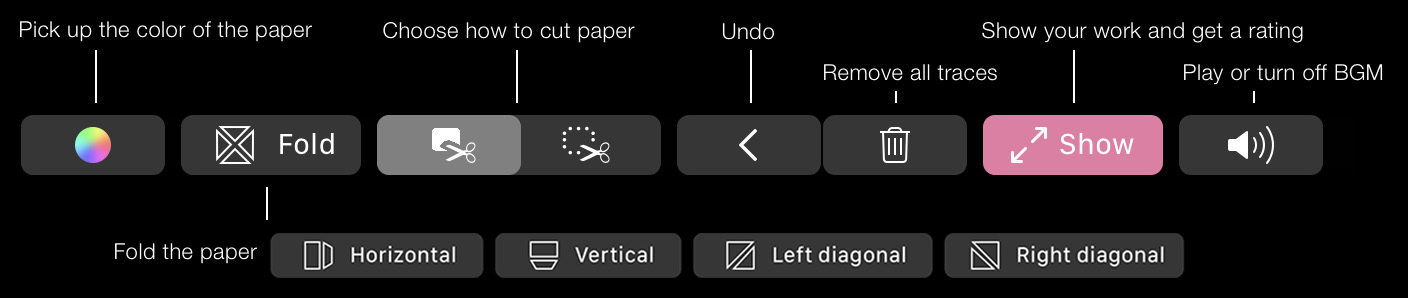
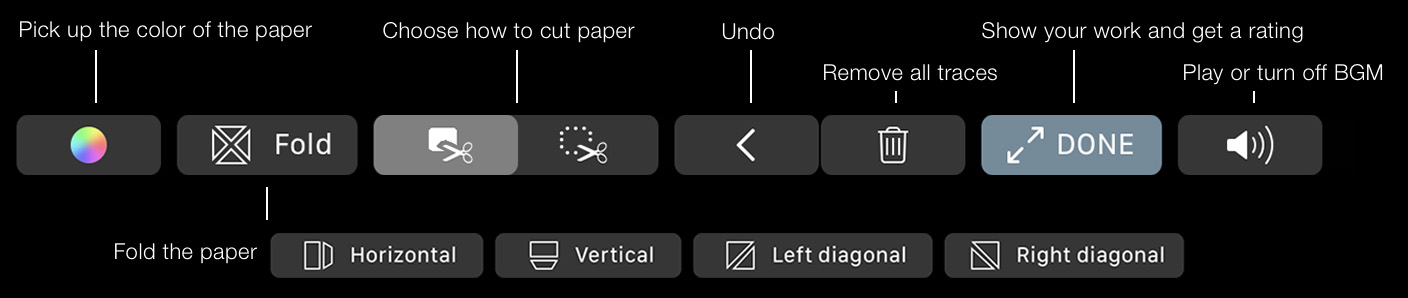
Add readme

diff --git a/Papercutting.playground/Sources/PaperCutScene.swift b/Papercutting.playground/Sources/PaperCutScene.swift
@@ -115,12 +115,12 @@ public class PaperCutScene : SKScene{
             SKAction.wait(forDuration: 2)
             self.scoreBoard.text = "Level-\(self.level): Cut a \"\(self.compareImageName)\"."
             self.scoreBoard.fontSize = CGFloat(20)
-            self.finishBoard.text = "Push DOWN, get the rank."
+            self.finishBoard.text = "Push DOWN, get the rating."
             self.hintButton.isHidden = false
         }
         let fadeInOut = SKAction.sequence([.fadeOut(withDuration: 0.1), presentAction, .fadeIn(withDuration: 0.3)])
         scoreBoard.fontColor = #colorLiteral(red: 0.4375018775, green: 0.5443386436, blue: 0.6065829396, alpha: 1)
-        scoreBoard.position = CGPoint(x: UIConfig.backgroundSize.width / 2 , y: UIConfig.backgroundSize.height / 7)
+        scoreBoard.position = CGPoint(x: UIConfig.backgroundSize.width / 2 , y: UIConfig.backgroundSize.height * 0.15)
         scoreBoard.name = "scoreboard"
         scoreBoard.fontName = "Futura Medium Italic"
         addChild(scoreBoard)
@@ -200,10 +200,12 @@ public class PaperCutScene : SKScene{
             if(self.level <= 2) {
                 self.scoreBoard.fontSize = CGFloat(20)
                 self.scoreBoard.text = "Level-\(self.level): Cut a \"\(self.compareImageName)\"."
-                self.finishBoard.text = "Push DOWN, get the rank."
+                self.finishBoard.fontSize =  CGFloat(20)
+                self.finishBoard.text = "Push DOWN, get the rating."
             } else {
                 self.scoreBoard.fontSize = CGFloat(20)
                 self.scoreBoard.text = "Level-\(self.level)"
+                self.finishBoard.fontSize =  CGFloat(20)
                 self.finishBoard.text = "Create your own papercutting art works."
             }
             self.hintButton.isHidden = false
@@ -365,26 +367,28 @@ public class PaperCutScene : SKScene{
         
         paperCutBoard.show()
         let rank = compare()
-        scoreBoard.text = "\(rank)"
-        scoreBoard.fontSize =  CGFloat(45)
+//        scoreBoard.text =
+//        scoreBoard.fontSize =  CGFloat(45)
+        finishBoard.fontSize = CGFloat(30)
         if rank == "🌟🌟🌟" {
             if level <= 2 {
                 nextButton.isHidden = false
             }
-            finishBoard.text = "Perfect!"
+            finishBoard.text = "\(rank)"
+            
             finishBoard.isHidden = false
         } else if rank == "🌟🌟"{
             if level <= 2 {
                 nextButton.isHidden = false
             }
-            finishBoard.text = "Greate!"
+            finishBoard.text = "\(rank)"
             finishBoard.isHidden = false
         } else {
             tryTime += 1
             if tryTime >= 3 {
                 nextButton.isHidden = false
             }
-            finishBoard.text = "Try harder!"
+            finishBoard.text = "\(rank)"
             finishBoard.isHidden = false
         }
  

diff --git a/Papercutting.playground/Pages/Papercutting.xcplaygroundpage/Contents.swift b/Papercutting.playground/Pages/Papercutting.xcplaygroundpage/Contents.swift
@@ -17,7 +17,11 @@
  
  There are two ways to cut paper. Yin carving is to engrave the outline lines that represent the structure of objects. Contrary to Yin carving, Yang carving is to cut away the blank part and keep the outline.
  
- ![carving-yin-yang](carving-yin-yang.png)
+ ![carving-yin-yang](skills.png)
+ 
+ ## Let's start with a circle
+ 
+ Try to fold the paper and cut the paper in two different ways. Finally, you can unfold the paper by pressing the `DONE` button on the touch bar, or pressing the `S` key on the keyboard to see the final work. In the first two levels, you need to cut out a circle and a star, and when pressing `DONE`, you will get a rating for your work. Try to get at least two 🌟, or even three. You can click `HINT` on the screen for some tips. When `NEXT` appears, you can click it to go to the next level.
  
  ## How to control?
  
@@ -38,9 +42,7 @@
      * T for clearing the paper
      * M for palying / turning off the backgroung music
  
- ## Let's start with a circle
- 
- Try to fold the paper and cut the paper in two different ways. Finally, you can unfold the paper by pressing the `DONE` button on the touch bar, or pressing the `S` key on the keyboard to see the final work. In the first two levels, you need to cut out a circle and a star, and when pressing `DONE`, you will get a rating for your work. Try to get at least two 🌟, or even three. You can click `H` for some tips. When `N` appears, you can click it to go to the next level.
+
  
  */
 import PlaygroundSupport

diff --git a/Papercutting.playground/Sources/WelcomeScene.swift b/Papercutting.playground/Sources/WelcomeScene.swift
@@ -4,7 +4,7 @@ import AppKit
 
 public class WelcomeScene: SKScene {
     
-    private let instruct        = SKLabelNode(text: "Try to fold and cut the paper. You can unfold the paper by pressing the DONE button on the touch bar, or pressing the S key on the keyboard to see the final work. In the first two levels , you need to cut out a circle and a star, and when pressing DONE, you will get a rating for your work. You can click H for some tips. When N appears, you can click it to go to the next level.")
+    private let instruct        = SKLabelNode(text: "Try to fold and cut the paper. You can unfold the paper by pressing the DONE button on the touch bar, or pressing the S key on the keyboard to see the final work. In the first two levels , you need to cut out a circle and a star, and when pressing DONE, you will get a rating for your work. You can click HINT for some tips. When NEXT appears, you can click it to go to the next level.")
     private let instruct2       = SKLabelNode(text: "Click any place to start the game.")
     private let instruct3       = SKLabelNode(text: "Papercutting")
     private let instructBG      = SKSpriteNode(imageNamed: "insbg.jpg", normalMapped: false)

diff --git a/README.md b/README.md
@@ -1,6 +1,49 @@
 # Papercutting
- The project for WWDC20
 
-Tell us about the features and technologies you used in your Swift playground.
+![](./assets/gallery.png)
 
-If you've shared or considered sharing your coding knowledge and enthusiasm for computer science with others, let us know.
+## Introduction
+
+Papercutting is a kind of folk art in China that uses scissors or a knife to cut patterns on paper. When I was a kid, our teachers used papercutting works as rewards. Every time during the Chinese New Year, the Chinese will post window papercutting, which is also a kind of papercutting art, as decorations to accentuate the New Year's atmosphere.
+
+For me, paper-cutting is a unique memory, a memory that children receive praise from the teacher, and a memory of family reunion.
+
+> Tell us about the features and technologies you used in your Swift playground.
+
+In the Papercuttion, I use AppKit, Vision, SpriteKit, AVFoundation and PlaygroundSupport.
+
+I use the NSView to realize the function of simulating folding paper and cutting paper. At the same time, I use NSTouchBarDelegate to implement the buttons on the touch bar. I used AppKit to implement some other functions, such as keyboard shortcuts, mouse clicks and drags.
+
+SpriteKit is used to build the main interface of Papercutting. I also use it to achieve some animations. For example, in the start interface, the cut paper will split into two halves and fly out. There will also be some text fading in and out using Spritekit.
+
+I also used Vision to compare the similarity between the pattern cut by the user and the preset pattern to give a rating. AVFoundation is used to play and pause background music.
+
+## Papercutting skills
+
+### Folding
+
+We can fold the paper and use symmetrical beauty to cut out various patterns.
+
+### Cutting
+
+There are two ways to cut paper. Yin carving is to engrave the outline lines that represent the structure of objects. Contrary to Yin carving, Yang carving is to cut away the blank part and keep the outline.
+
+![](./assets/skills.png)
+
+### Beyond WWDC20
+
+> If you've shared or considered sharing your coding knowledge and enthusiasm for computer science with others, let us know.
+
+I am now a junior student majoring in CS. I want to change the status that many students studying CS don’t like coding. I found that in China, many students learning CS do not like coding very much, they are more focused on algorithms and some very theoretical knowledge. When it comes to the requirements  to write large-scale projects, they are usually powerless. 
+
+This is because we did not really enjoy coding when we were in freshman year, and cultivated the habit of coding. Instead, we are more focused on how to use recursive to dazzle techniques in C language.
+
+At the beginning of learning coding, we need to enjoy coding, and get used to coding. I did a project called Cuser. When we were studying the development of STC, I saw that the students around were confused about the hardware development and their experience was extremely poor. So I made this simple project. In this project, through the communication between the PC/Mac and board, we can use Python to simply write a few codes to achieve a variety of functions on our development board. This allows beginners to feel the fun of hardware development, instead of falling into the ocean of hardware development at the beginning, and even drowning in the water.
+
+Swift is also a good way for novices to enjoy coding. It allows us to feel the code we have written in some visual ways. In this challenge, I felt the playground ’s friendliness to novices. I seldom use Swift before. Through the documents provided by apple, I can easily build a simple game in playground.
+
+After we have some interest in coding, some more in-depth theoretical knowledge is also necessary, such as computer architecture, compiler, operating system, and so on. In our school, I usually use a lot of pictures and examples to explain some more in-depth principles to my classmates, and sometimes use some real-life examples as a comparison.
+
+At the same time, many universities also provide good online courses, but the video and text resources of these courses are often in English. While many Chinese students have difficulty understanding English resources. I also participated in the translation of CSAPP course videos before. This project is also supported by the CSAPP course group. The videos we translated can be seen on Github and Bilibili.
+
+Finally, I plan to establish a club in our school in my senior year. I want to take everyone to \'play\' Siwft and enjoy coding together.
